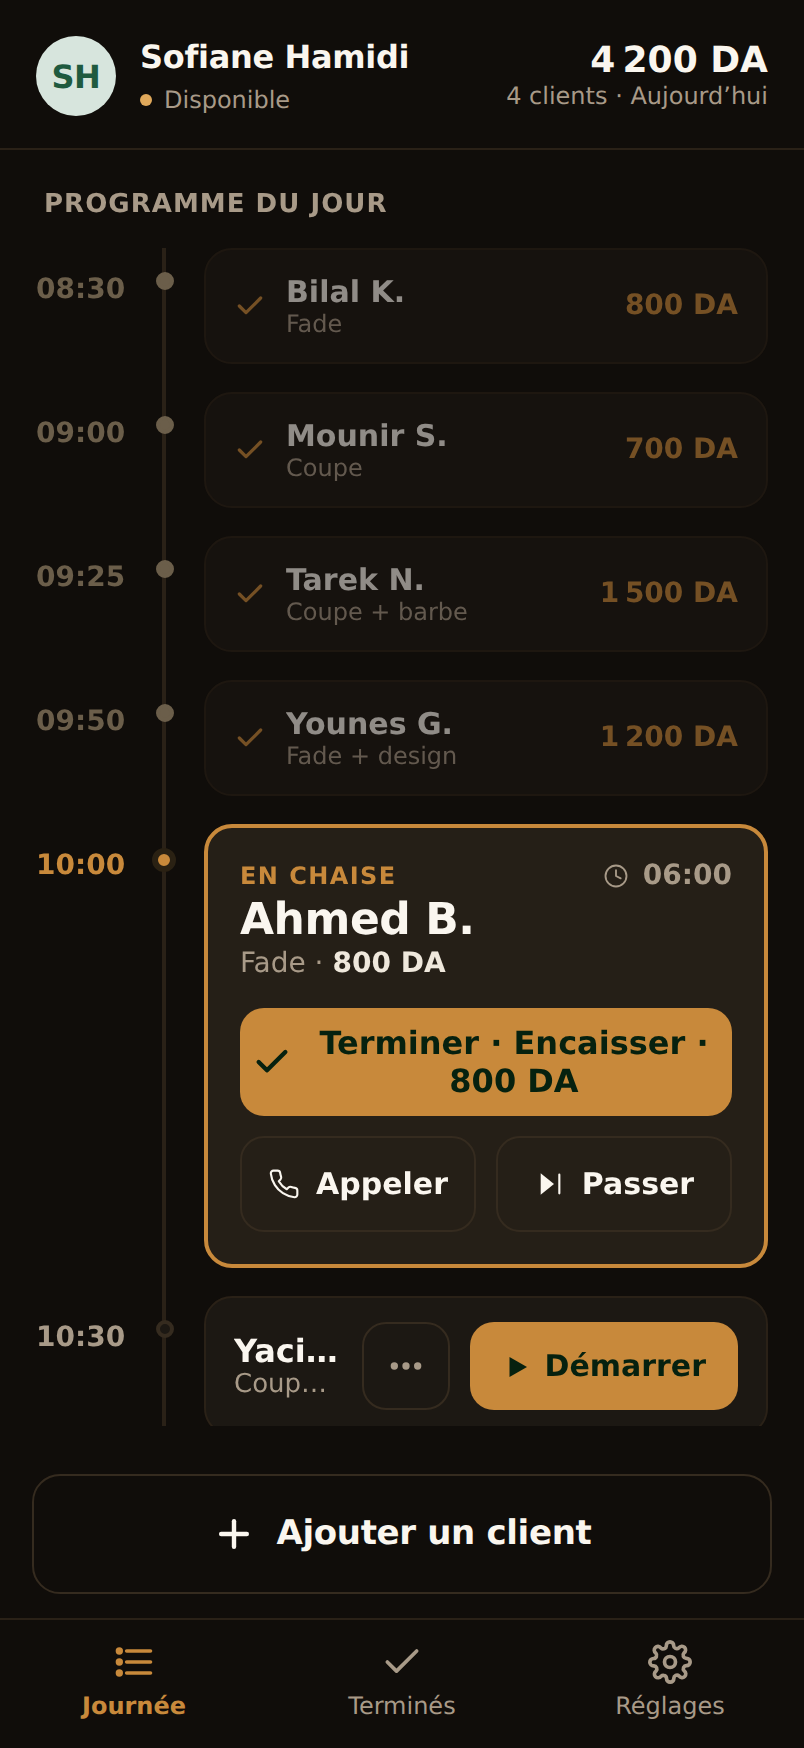
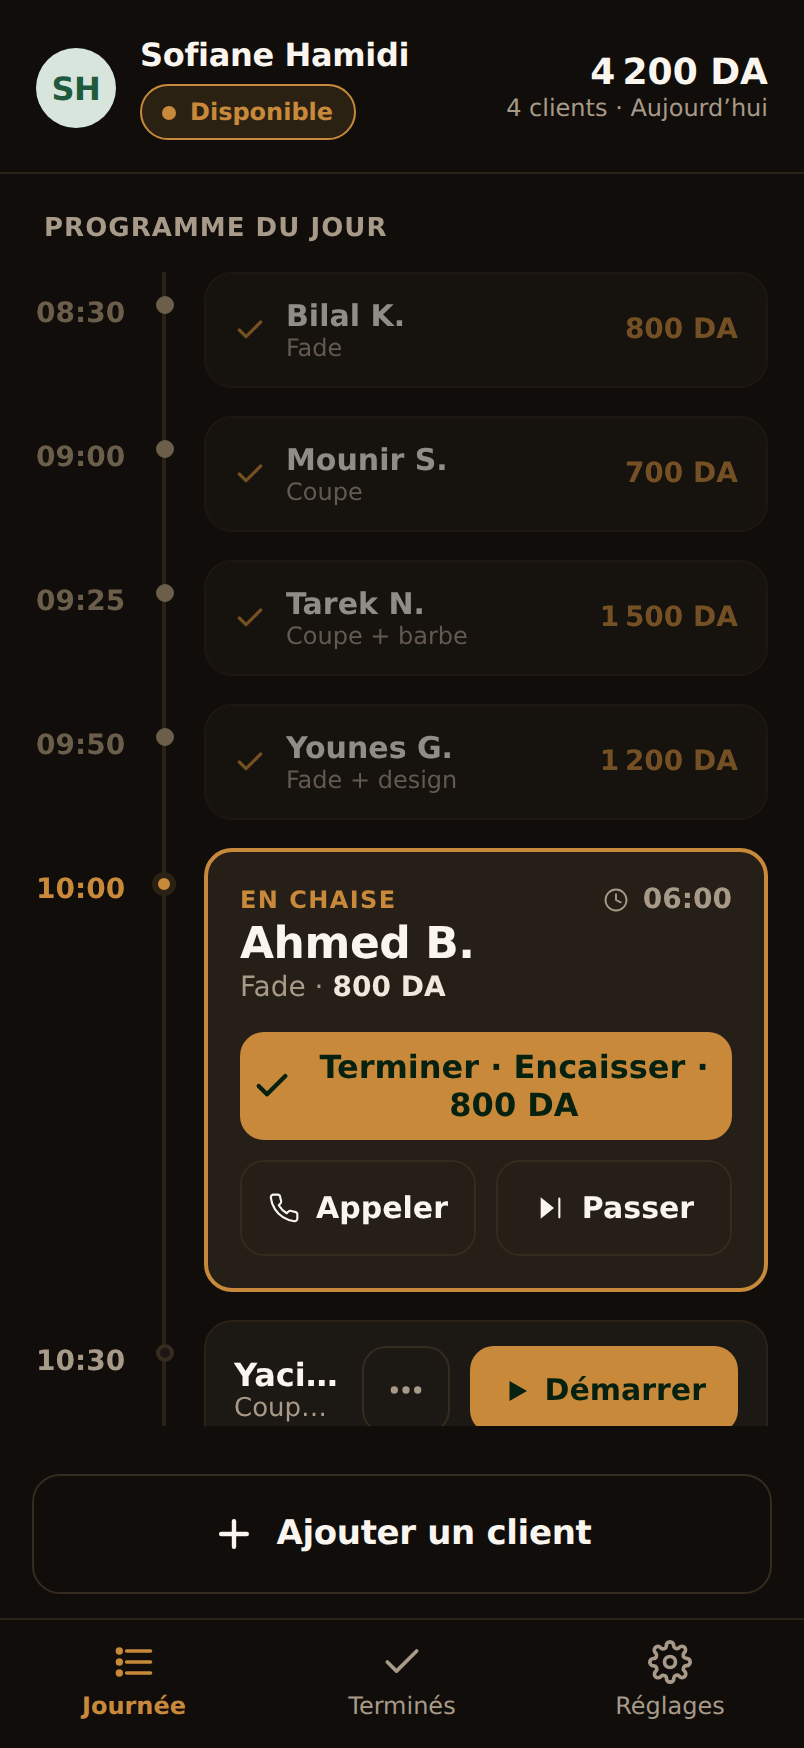
Add availability toggle to the barber app (stop/resume accepting clients)
The redesigned header showed "Disponible" as a static label with no control.
Added a real toggle:
- The header status is now a tappable pill: Disponible (brass) ⇄ Indisponible
  (muted). Tapping it flips availability and shows a toast.
- When unavailable: a banner "Indisponible — réservations en pause" with a
  "Réactiver" button, and the "+ Ajouter un client" action is disabled/dimmed.
- The day timeline stays visible so the barber finishes existing clients.

Bilingual (FR/AR). Re-synced app/. Verified console-clean.

Note: app and site are separate, so this is app-local; reflecting it on the
customer site (showing "closed") would need a shared backend.

https://claude.ai/code/session_01KXeZ2jfMa8Hu5hkugmRzRp

diff --git a/app/src/barber-fast.jsx b/app/src/barber-fast.jsx
@@ -13,7 +13,9 @@ const FAST_STR = {
     add: 'Ajouter un client', addToQueue: 'Ajouter à la file', walkIn: 'Walk-in',
     name: 'Nom (optionnel)', service: 'Service', cashIn: 'Encaisser',
     noShow: 'Absent', today: "Aujourd’hui", clients: 'clients', doneToday: 'Terminés',
-    revenue: 'Recette', available: 'Disponible', busy: 'Occupé', running: 'en cours',
+    revenue: 'Recette', available: 'Disponible', unavailable: 'Indisponible', busy: 'Occupé', running: 'en cours',
+    offToast: 'Vous n’acceptez plus de nouveaux clients', onToast: 'Disponible — clients acceptés',
+    closedBanner: 'Indisponible — réservations en pause', reactivate: 'Réactiver',
     tabNow: 'Journée', tabDone: 'Terminés', tabMore: 'Réglages', language: 'Langue', daySchedule: 'Programme du jour',
     paidToast: (a) => `Encaissé · ${a}`, addedToast: 'Ajouté à la file', noShowToast: 'Marqué absent',
     none: 'Aucun client terminé pour l’instant.',
@@ -25,7 +27,9 @@ const FAST_STR = {
     add: 'إضافة زبون', addToQueue: 'أضف إلى القائمة', walkIn: 'بدون موعد',
     name: 'الاسم (اختياري)', service: 'الخدمة', cashIn: 'تحصيل',
     noShow: 'غائب', today: 'اليوم', clients: 'زبائن', doneToday: 'المنتهية',
-    revenue: 'المداخيل', available: 'متاح', busy: 'مشغول', running: 'جارٍ',
+    revenue: 'المداخيل', available: 'متاح', unavailable: 'غير متاح', busy: 'مشغول', running: 'جارٍ',
+    offToast: 'لن تستقبل زبائن جدداً', onToast: 'متاح — تستقبل الزبائن',
+    closedBanner: 'غير متاح — استقبال الزبائن متوقّف', reactivate: 'إعادة التفعيل',
     tabNow: 'اليوم', tabDone: 'المنتهية', tabMore: 'الإعدادات', language: 'اللغة', daySchedule: 'برنامج اليوم',
     paidToast: (a) => `تم التحصيل · ${a}`, addedToast: 'أُضيف إلى القائمة', noShowToast: 'تمّ وضع علامة غائب',
     none: 'لا يوجد زبائن منتهون بعد.',
@@ -80,6 +84,7 @@ function BarberFast({ lang = 'fr', setLang, density = 'busy', barberId = 'sofian
   const [walkIns, setWalkIns] = React.useState([]);
   const [doneExtra, setDoneExtra] = React.useState([]);
   const [tab, setTab] = React.useState('now');
+  const [available, setAvailable] = React.useState(true);   // accepting new clients?
   const [payOpen, setPayOpen] = React.useState(false);
   const [addOpen, setAddOpen] = React.useState(false);
   const [toast, setToast] = React.useState(null);
@@ -146,7 +151,16 @@ function BarberFast({ lang = 'fr', setLang, density = 'busy', barberId = 'sofian
                         whiteSpace: 'nowrap', overflow: 'hidden', textOverflow: 'ellipsis' }}>
             {barber.name[lang]}
           </div>
-          <StatusDot color={TOKENS.green} label={L.available} />
+          <button onClick={() => { setAvailable(a => !a); showToast(available ? L.offToast : L.onToast); }}
+                  aria-label={available ? L.available : L.unavailable}
+                  style={{ appearance: 'none', cursor: 'pointer', fontFamily: 'inherit', marginTop: 5,
+                           display: 'inline-flex', alignItems: 'center', gap: 7, height: 28, padding: '0 10px', borderRadius: 999,
+                           background: available ? TOKENS.accentSoft : TOKENS.surface,
+                           border: `1px solid ${available ? TOKENS.accent : TOKENS.border}`,
+                           color: available ? TOKENS.accent : TOKENS.muted, fontSize: 12, fontWeight: 700 }}>
+            <span style={{ width: 7, height: 7, borderRadius: '50%', background: available ? TOKENS.accent : TOKENS.muted }} />
+            {available ? L.available : L.unavailable}
+          </button>
         </div>
         <div style={{ textAlign: dir === 'rtl' ? 'left' : 'right', lineHeight: 1.1 }}>
           <div style={{ fontSize: 18, fontWeight: 800, fontVariantNumeric: 'tabular-nums' }}>{fmt(revShown)}</div>
@@ -158,6 +172,19 @@ function BarberFast({ lang = 'fr', setLang, density = 'busy', barberId = 'sofian
       <div style={{ flex: 1, minHeight: 0, overflow: 'auto', padding: '20px 18px 10px' }}>
         {tab === 'now' && (
           <div className="fast-chair" style={{ animation: 'fast-chair-in 280ms cubic-bezier(0.2,0.8,0.2,1)' }}>
+            {!available && (
+              <div style={{ marginBottom: 16, padding: '14px 16px', borderRadius: 14,
+                            background: TOKENS.redSoft, border: `1px solid ${TOKENS.red}55`,
+                            display: 'flex', alignItems: 'center', gap: 12 }}>
+                <Icon name="pause" size={18} style={{ color: TOKENS.red, flexShrink: 0 }} />
+                <div style={{ flex: 1, minWidth: 0, fontSize: 14, fontWeight: 600, color: TOKENS.inkSoft }}>{L.closedBanner}</div>
+                <button onClick={() => { setAvailable(true); showToast(L.onToast); }} style={{
+                  appearance: 'none', cursor: 'pointer', fontFamily: 'inherit', height: 38, paddingInline: 14, borderRadius: 10,
+                  background: TOKENS.accent, color: '#06210F', border: 'none', fontSize: 13, fontWeight: 800, flexShrink: 0 }}>
+                  {L.reactivate}
+                </button>
+              </div>
+            )}
             <div style={{ fontSize: 13, fontWeight: 700, letterSpacing: '0.04em', textTransform: 'uppercase',
                           color: TOKENS.muted, margin: '0 0 14px 4px' }}>{L.daySchedule}</div>
             {(() => {
@@ -203,7 +230,8 @@ function BarberFast({ lang = 'fr', setLang, density = 'busy', barberId = 'sofian
       {/* ── Always-visible primary action: add a client in one tap ──────────── */}
       {tab === 'now' && (
         <div style={{ flexShrink: 0, padding: '8px 16px 12px' }}>
-          <button onClick={() => setAddOpen(true)} style={bigBtn(TOKENS.surface, TOKENS.ink, false, true)}>
+          <button onClick={() => available && setAddOpen(true)} disabled={!available}
+                  style={{ ...bigBtn(TOKENS.surface, TOKENS.ink, false, true), opacity: available ? 1 : 0.4, cursor: available ? 'pointer' : 'not-allowed' }}>
             <Icon name="plus" size={22} stroke={2.4} /> <span>{L.add}</span>
           </button>
         </div>

diff --git a/src/barber-fast.jsx b/src/barber-fast.jsx
@@ -13,7 +13,9 @@ const FAST_STR = {
     add: 'Ajouter un client', addToQueue: 'Ajouter à la file', walkIn: 'Walk-in',
     name: 'Nom (optionnel)', service: 'Service', cashIn: 'Encaisser',
     noShow: 'Absent', today: "Aujourd’hui", clients: 'clients', doneToday: 'Terminés',
-    revenue: 'Recette', available: 'Disponible', busy: 'Occupé', running: 'en cours',
+    revenue: 'Recette', available: 'Disponible', unavailable: 'Indisponible', busy: 'Occupé', running: 'en cours',
+    offToast: 'Vous n’acceptez plus de nouveaux clients', onToast: 'Disponible — clients acceptés',
+    closedBanner: 'Indisponible — réservations en pause', reactivate: 'Réactiver',
     tabNow: 'Journée', tabDone: 'Terminés', tabMore: 'Réglages', language: 'Langue', daySchedule: 'Programme du jour',
     paidToast: (a) => `Encaissé · ${a}`, addedToast: 'Ajouté à la file', noShowToast: 'Marqué absent',
     none: 'Aucun client terminé pour l’instant.',
@@ -25,7 +27,9 @@ const FAST_STR = {
     add: 'إضافة زبون', addToQueue: 'أضف إلى القائمة', walkIn: 'بدون موعد',
     name: 'الاسم (اختياري)', service: 'الخدمة', cashIn: 'تحصيل',
     noShow: 'غائب', today: 'اليوم', clients: 'زبائن', doneToday: 'المنتهية',
-    revenue: 'المداخيل', available: 'متاح', busy: 'مشغول', running: 'جارٍ',
+    revenue: 'المداخيل', available: 'متاح', unavailable: 'غير متاح', busy: 'مشغول', running: 'جارٍ',
+    offToast: 'لن تستقبل زبائن جدداً', onToast: 'متاح — تستقبل الزبائن',
+    closedBanner: 'غير متاح — استقبال الزبائن متوقّف', reactivate: 'إعادة التفعيل',
     tabNow: 'اليوم', tabDone: 'المنتهية', tabMore: 'الإعدادات', language: 'اللغة', daySchedule: 'برنامج اليوم',
     paidToast: (a) => `تم التحصيل · ${a}`, addedToast: 'أُضيف إلى القائمة', noShowToast: 'تمّ وضع علامة غائب',
     none: 'لا يوجد زبائن منتهون بعد.',
@@ -80,6 +84,7 @@ function BarberFast({ lang = 'fr', setLang, density = 'busy', barberId = 'sofian
   const [walkIns, setWalkIns] = React.useState([]);
   const [doneExtra, setDoneExtra] = React.useState([]);
   const [tab, setTab] = React.useState('now');
+  const [available, setAvailable] = React.useState(true);   // accepting new clients?
   const [payOpen, setPayOpen] = React.useState(false);
   const [addOpen, setAddOpen] = React.useState(false);
   const [toast, setToast] = React.useState(null);
@@ -146,7 +151,16 @@ function BarberFast({ lang = 'fr', setLang, density = 'busy', barberId = 'sofian
                         whiteSpace: 'nowrap', overflow: 'hidden', textOverflow: 'ellipsis' }}>
             {barber.name[lang]}
           </div>
-          <StatusDot color={TOKENS.green} label={L.available} />
+          <button onClick={() => { setAvailable(a => !a); showToast(available ? L.offToast : L.onToast); }}
+                  aria-label={available ? L.available : L.unavailable}
+                  style={{ appearance: 'none', cursor: 'pointer', fontFamily: 'inherit', marginTop: 5,
+                           display: 'inline-flex', alignItems: 'center', gap: 7, height: 28, padding: '0 10px', borderRadius: 999,
+                           background: available ? TOKENS.accentSoft : TOKENS.surface,
+                           border: `1px solid ${available ? TOKENS.accent : TOKENS.border}`,
+                           color: available ? TOKENS.accent : TOKENS.muted, fontSize: 12, fontWeight: 700 }}>
+            <span style={{ width: 7, height: 7, borderRadius: '50%', background: available ? TOKENS.accent : TOKENS.muted }} />
+            {available ? L.available : L.unavailable}
+          </button>
         </div>
         <div style={{ textAlign: dir === 'rtl' ? 'left' : 'right', lineHeight: 1.1 }}>
           <div style={{ fontSize: 18, fontWeight: 800, fontVariantNumeric: 'tabular-nums' }}>{fmt(revShown)}</div>
@@ -158,6 +172,19 @@ function BarberFast({ lang = 'fr', setLang, density = 'busy', barberId = 'sofian
       <div style={{ flex: 1, minHeight: 0, overflow: 'auto', padding: '20px 18px 10px' }}>
         {tab === 'now' && (
           <div className="fast-chair" style={{ animation: 'fast-chair-in 280ms cubic-bezier(0.2,0.8,0.2,1)' }}>
+            {!available && (
+              <div style={{ marginBottom: 16, padding: '14px 16px', borderRadius: 14,
+                            background: TOKENS.redSoft, border: `1px solid ${TOKENS.red}55`,
+                            display: 'flex', alignItems: 'center', gap: 12 }}>
+                <Icon name="pause" size={18} style={{ color: TOKENS.red, flexShrink: 0 }} />
+                <div style={{ flex: 1, minWidth: 0, fontSize: 14, fontWeight: 600, color: TOKENS.inkSoft }}>{L.closedBanner}</div>
+                <button onClick={() => { setAvailable(true); showToast(L.onToast); }} style={{
+                  appearance: 'none', cursor: 'pointer', fontFamily: 'inherit', height: 38, paddingInline: 14, borderRadius: 10,
+                  background: TOKENS.accent, color: '#06210F', border: 'none', fontSize: 13, fontWeight: 800, flexShrink: 0 }}>
+                  {L.reactivate}
+                </button>
+              </div>
+            )}
             <div style={{ fontSize: 13, fontWeight: 700, letterSpacing: '0.04em', textTransform: 'uppercase',
                           color: TOKENS.muted, margin: '0 0 14px 4px' }}>{L.daySchedule}</div>
             {(() => {
@@ -203,7 +230,8 @@ function BarberFast({ lang = 'fr', setLang, density = 'busy', barberId = 'sofian
       {/* ── Always-visible primary action: add a client in one tap ──────────── */}
       {tab === 'now' && (
         <div style={{ flexShrink: 0, padding: '8px 16px 12px' }}>
-          <button onClick={() => setAddOpen(true)} style={bigBtn(TOKENS.surface, TOKENS.ink, false, true)}>
+          <button onClick={() => available && setAddOpen(true)} disabled={!available}
+                  style={{ ...bigBtn(TOKENS.surface, TOKENS.ink, false, true), opacity: available ? 1 : 0.4, cursor: available ? 'pointer' : 'not-allowed' }}>
             <Icon name="plus" size={22} stroke={2.4} /> <span>{L.add}</span>
           </button>
         </div>
